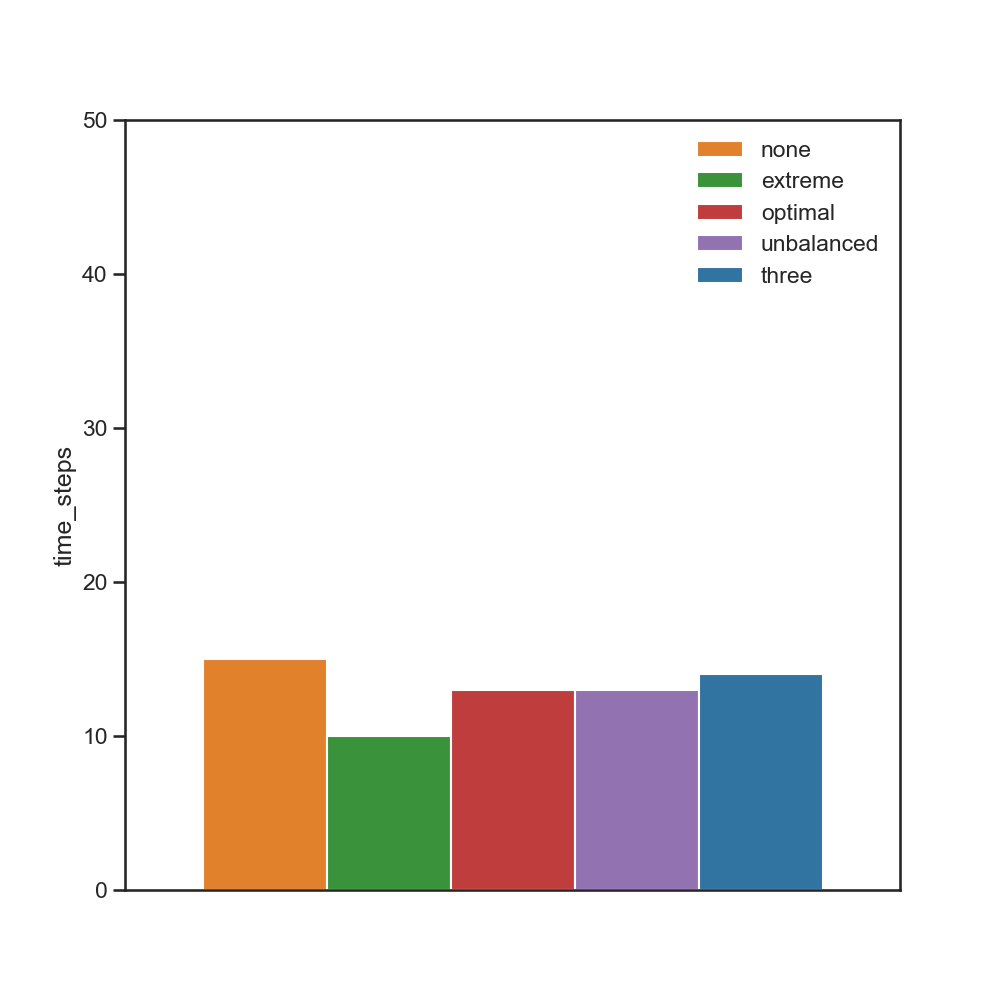
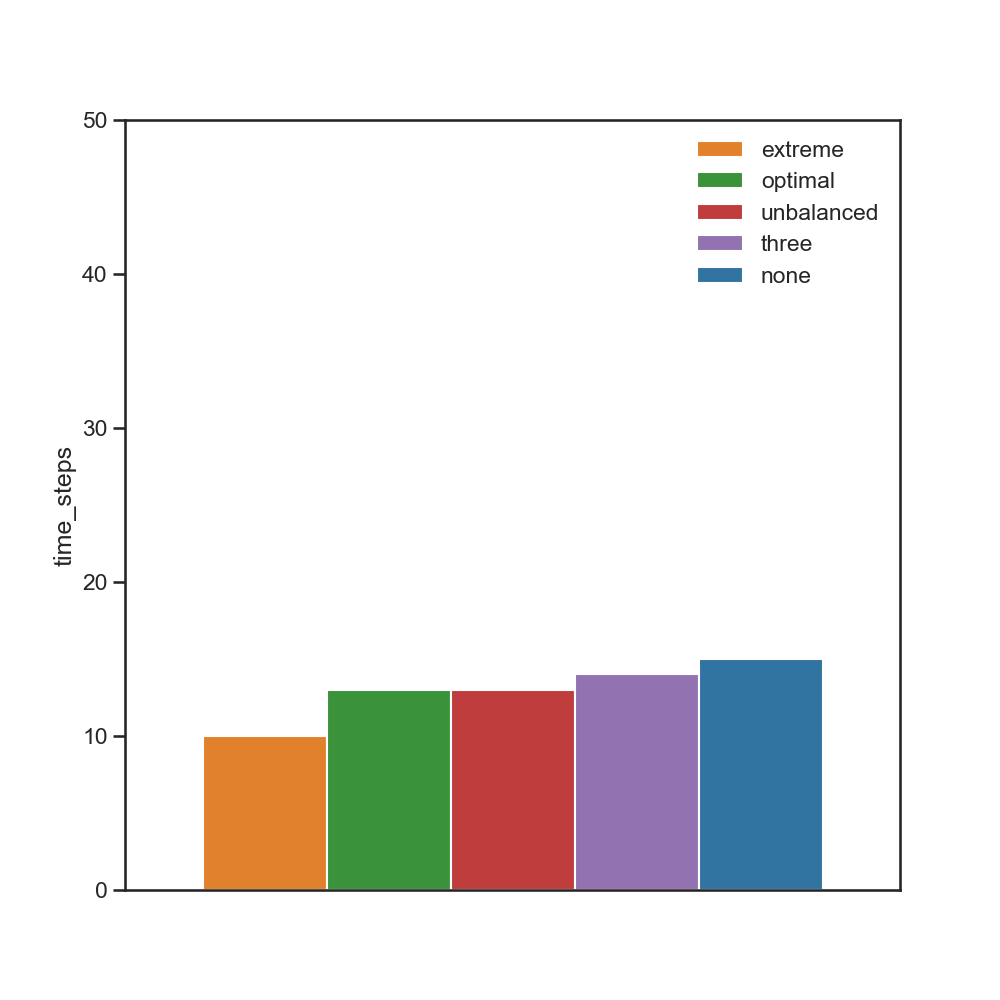
Ran three different mode on Open map

Changed region(s): [[0.186, 0.651, 0.465, 0.744], [0.744, 0.124, 0.868, 0.279], [0.558, 0.651, 0.837, 0.713]]

diff --git a/gym_cooking/envs/overcooked_environment.py b/gym_cooking/envs/overcooked_environment.py
@@ -195,11 +195,11 @@ class OvercookedEnvironment(gym.Env):
     
     def roleAssignmentAlgorithm(self, typeUsed, num_agents):
         if typeUsed == "extreme":
-            return [InvincibleWaiter(), IdlePerson()]
+            return [IdlePerson(), InvincibleWaiter()]
         elif typeUsed == "none":
             return [InvincibleWaiter(), InvincibleWaiter()]
         elif typeUsed == "unbalanced":
-            return [ExceptionalChefMerger(), FryingWaiter()]
+            return [Chopper(), InvincibleWaiter()]
         elif typeUsed == "three":
             if num_agents == 2:
                 return [ExceptionalChefMerger(), FryingMergingWaiter()]

diff --git a/gym_cooking/main.py b/gym_cooking/main.py
@@ -87,11 +87,11 @@ def findSuitableRoles(actionsNotSatisfied, num_agents):
     
 def roleAssignmentAlgorithm(typeUsed, num_agents):
     if typeUsed == "extreme":
-        return [InvincibleWaiter(), IdlePerson()]
+        return [IdlePerson(), InvincibleWaiter()]
     elif typeUsed == "none":
         return [InvincibleWaiter(), InvincibleWaiter()]
     elif typeUsed == "unbalanced":
-        return [ExceptionalChefMerger(), FryingWaiter()]
+        return [Chopper(), InvincibleWaiter()]
     elif typeUsed == "three":
         if num_agents == 2:
             return [ExceptionalChefMerger(), FryingMergingWaiter()]

diff --git a/gym_cooking/misc/metrics/make_graphs.py b/gym_cooking/misc/metrics/make_graphs.py
@@ -60,6 +60,7 @@ maps = [
         "open-divider",
         "partial-divider",
         "very-easy",
+        "new-open",
         ]
 seeds = range(1,10)
 agents = ['agent-1', 'agent-2', 'agent-3', 'agent-4']
@@ -68,6 +69,7 @@ agents2_optimal = {
     "partial-divider": {"tomato": 17, "tl": 31, "salad": 21},
     "full-divider": {"tomato": 17, "tl": 31, "salad": 21},
     "very-easy": {"chicken": 40, "salad": 25, "tomato": 21, "burger": 28, "CF":25},
+    "new-open": {"tomato": 20, "salad": 25, "burger": 30, "CF": 30},
 }
 agents3_optimal = {
     "open-divider": {"tomato": 12, "tl": 22, "salad": 15},
